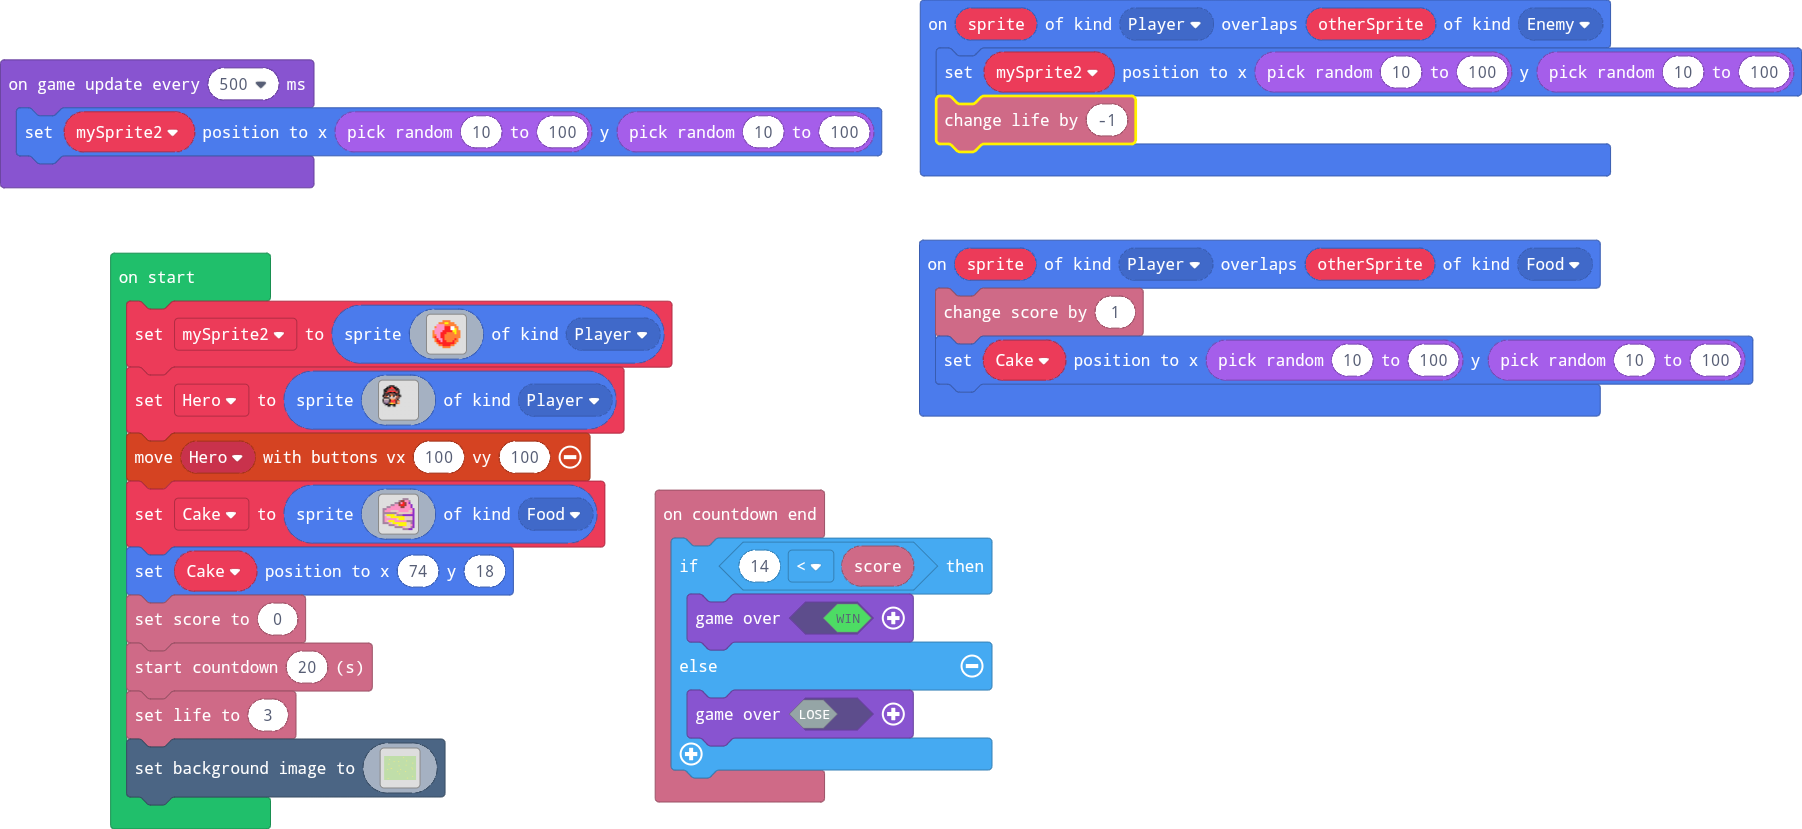
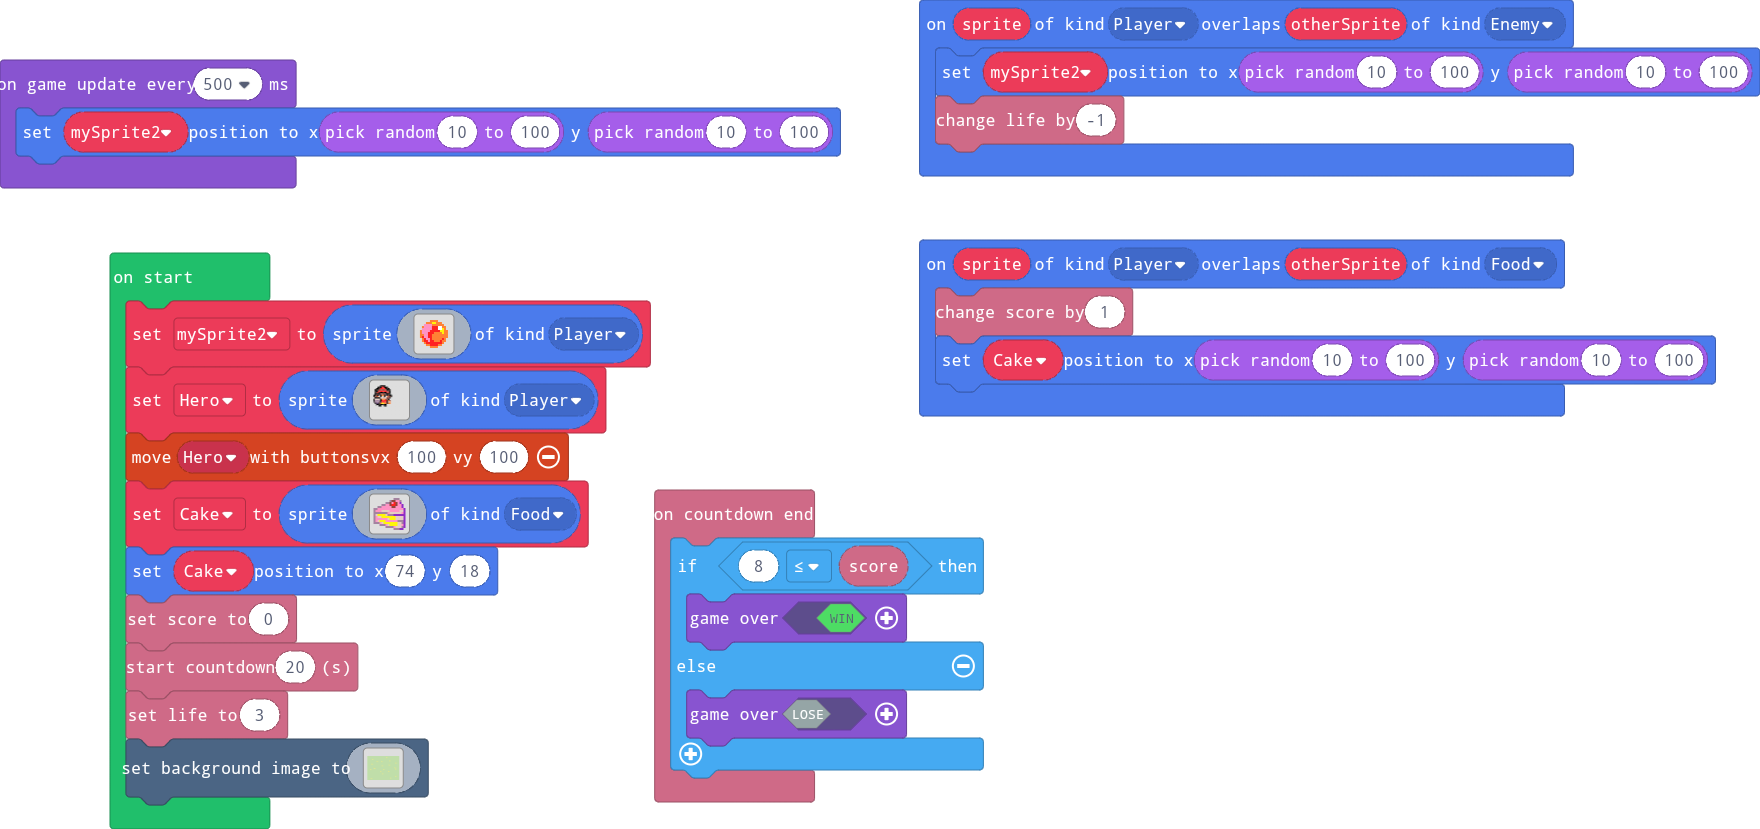
score change

diff --git a/main.ts b/main.ts
@@ -10,7 +10,7 @@ sprites.onOverlap(SpriteKind.Player, SpriteKind.Enemy, function (sprite, otherSp
     info.changeLifeBy(-1)
 })
 info.onCountdownEnd(function () {
-    if (14 < info.score()) {
+    if (8 <= info.score()) {
         game.over(true)
     } else {
         game.over(false)
